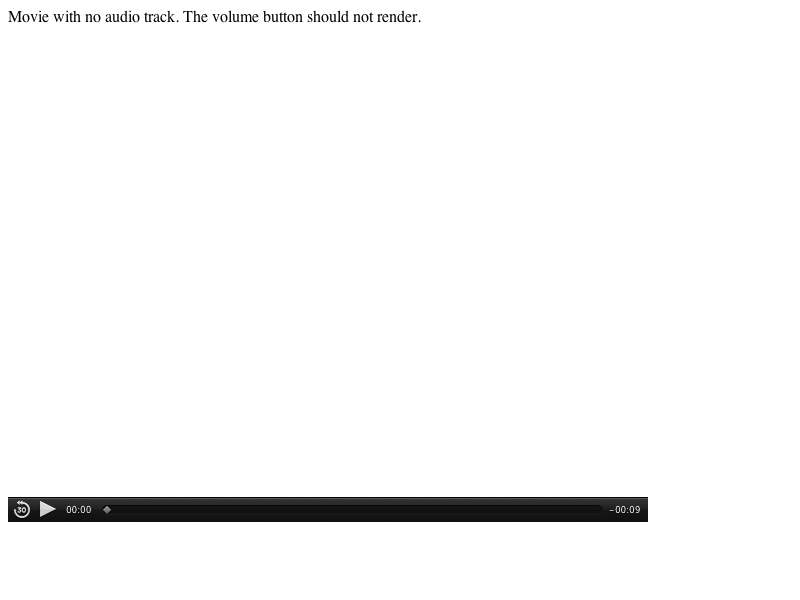
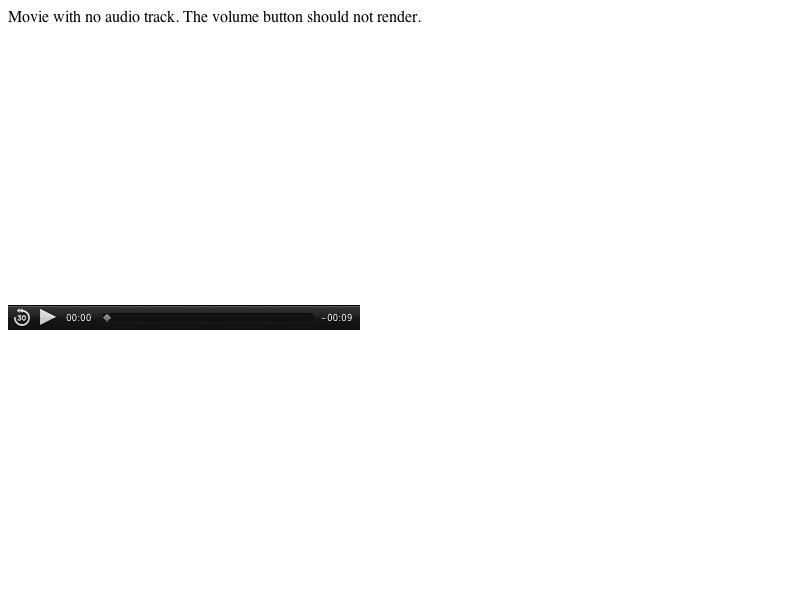
2010-03-24  Andrew Scherkus  <scherkus@chromium.org>
Reviewed by Eric Carlson, Eric Seidel and David Levin.

        Update a few more media layout tests to choose test clips based on codec support.

        https://bugs.webkit.org/show_bug.cgi?id=30435

        * media/audio-constructor-src.html: Switched to use findMediaFile().
        * media/audio-play-event-expected.txt: Updated results.
        * media/audio-play-event.html: Switched to use findMediaFile().
        * media/video-no-audio.html: Ditto.
        * media/video-source-add-src.html: Ditto.
        * media/video-src-change.html: Closed p tag.
        * platform/mac-leopard/media/video-no-audio-expected.checksum: New results due to changing source video.
        * platform/mac-leopard/media/video-no-audio-expected.png: Ditto.
        * platform/mac-leopard/media/video-no-audio-expected.txt: Ditto.
        * platform/mac/media/video-no-audio-expected.checksum: Ditto.
        * platform/mac/media/video-no-audio-expected.png: Ditto.
        * platform/mac/media/video-no-audio-expected.txt: Ditto.

Identifier: 47775@main
git-svn-id: https://svn.webkit.org/repository/webkit/trunk@56481 268f45cc-cd09-0410-ab3c-d52691b4dbfc

Changed region(s): [[0.0, 0.81, 0.8125, 0.87], [0.0, 0.51, 0.4688, 0.57]]

diff --git a/LayoutTests/media/video-no-audio.html b/LayoutTests/media/video-no-audio.html
@@ -1,9 +1,15 @@
 <html>
     <head>
+        <script src=media-file.js></script>
         <script>
             if (window.layoutTestController)
                 layoutTestController.waitUntilDone();
     
+            function start()
+            {
+                setSrcByTagName("video", findMediaFile("video", "content/counting"));
+            }
+
             function finish()
             {
                 if (window.layoutTestController)
@@ -11,8 +17,8 @@
             }
         </script>
     </head>
-    <body>
+    <body onload="start()">
         <p>Movie with no audio track. The volume button should not render.</p>
-        <video src="content/scaled-matrix.mov" controls onload="finish()"></video>
+        <video controls oncanplaythrough="finish()"></video>
     </body>
 </html>

diff --git a/LayoutTests/media/video-source-add-src.html b/LayoutTests/media/video-source-add-src.html
@@ -1,9 +1,11 @@
 <html>
 <body>
+    <script src=media-file.js></script>
     <script src=video-test.js></script>
 
     <video controls>
         <source src=content/test.mp4 type="video/mpeg; codecs=&quot;avc1.4D400C&quot;">
+        <source src=content/test.ogv type="video/ogg; codecs=&quot;theora,vorbis&quot;">
     </video>
 
     <script>
@@ -13,7 +15,7 @@
         function checkLoad() 
         { 
             consoleWrite("");
-            testExpected("relativeURL(video.currentSrc)", "content/test.mp4");
+            testExpected("relativeURL(video.currentSrc)", findMediaFile("video", "content/test"));
             if (++counter == 2)
                 endTest();
             run("video.src = 'content/silence.mpg'");

diff --git a/LayoutTests/media/audio-constructor-src.html b/LayoutTests/media/audio-constructor-src.html
@@ -3,12 +3,13 @@
 <script src=media-file.js></script>
 <script src=video-test.js></script>
 <script>
-    var audio = new Audio(findMediaFile("audio", "content/test"));
+    var audioFile = findMediaFile("audio", "content/test");
+    var audio = new Audio(audioFile);
     mediaElement = audio;
 
     testExpected("audio instanceof HTMLAudioElement", true);
 
-    waitForEvent("loadstart", function () { testExpected("relativeURL(audio.currentSrc)", "content/test.wav"); });
+    waitForEvent("loadstart", function () { testExpected("relativeURL(audio.currentSrc)", audioFile); });
 
     waitForEventAndEnd("canplaythrough");
 </script>

diff --git a/LayoutTests/media/audio-play-event.html b/LayoutTests/media/audio-play-event.html
@@ -1,6 +1,7 @@
 <html>
     <head>
         <title>'play' event</title>
+        <script src=media-file.js></script>
         <script src=video-test.js></script>
 
         <script>
@@ -13,7 +14,7 @@
                 waitForEvent('canplaythrough');
                 waitForEvent('play');
                 waitForEvent('playing', function() { endTest(); });
-                run("mediaElement.src = 'content/silence.mpg'");
+                run("mediaElement.src = findMediaFile('audio', 'content/test')");
                 run("mediaElement.volume = 1");
                 run("mediaElement.play()");
             }    

diff --git a/LayoutTests/media/video-src-change.html b/LayoutTests/media/video-src-change.html
@@ -7,7 +7,7 @@
     1. Test that an invalid src attribute fires an error when the file fails to load.<br>
     2. Test that changing src attribute triggers load after a load fails.<br>
     3. Test that changing src does not trigger load once a file is known to be valid.
-    </p
+    </p>
     <script src=media-file.js></script>
     <script src=video-test.js></script>
     <script>
